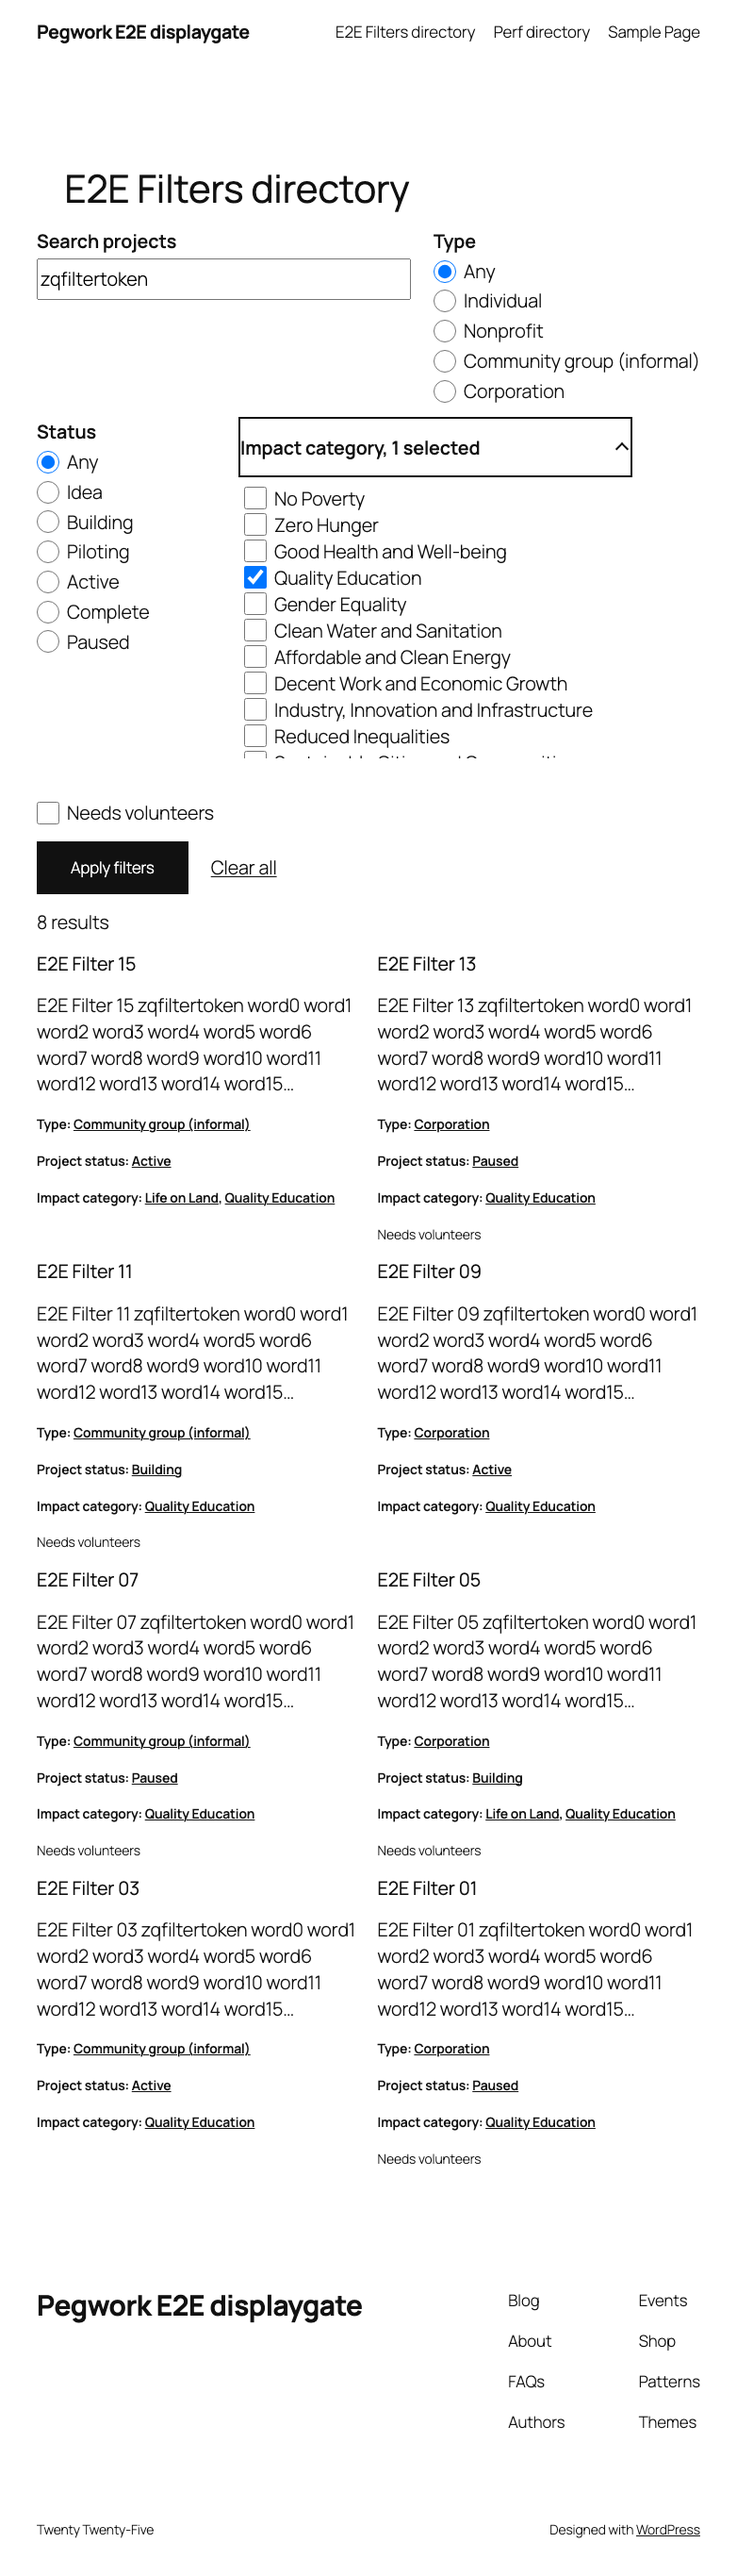
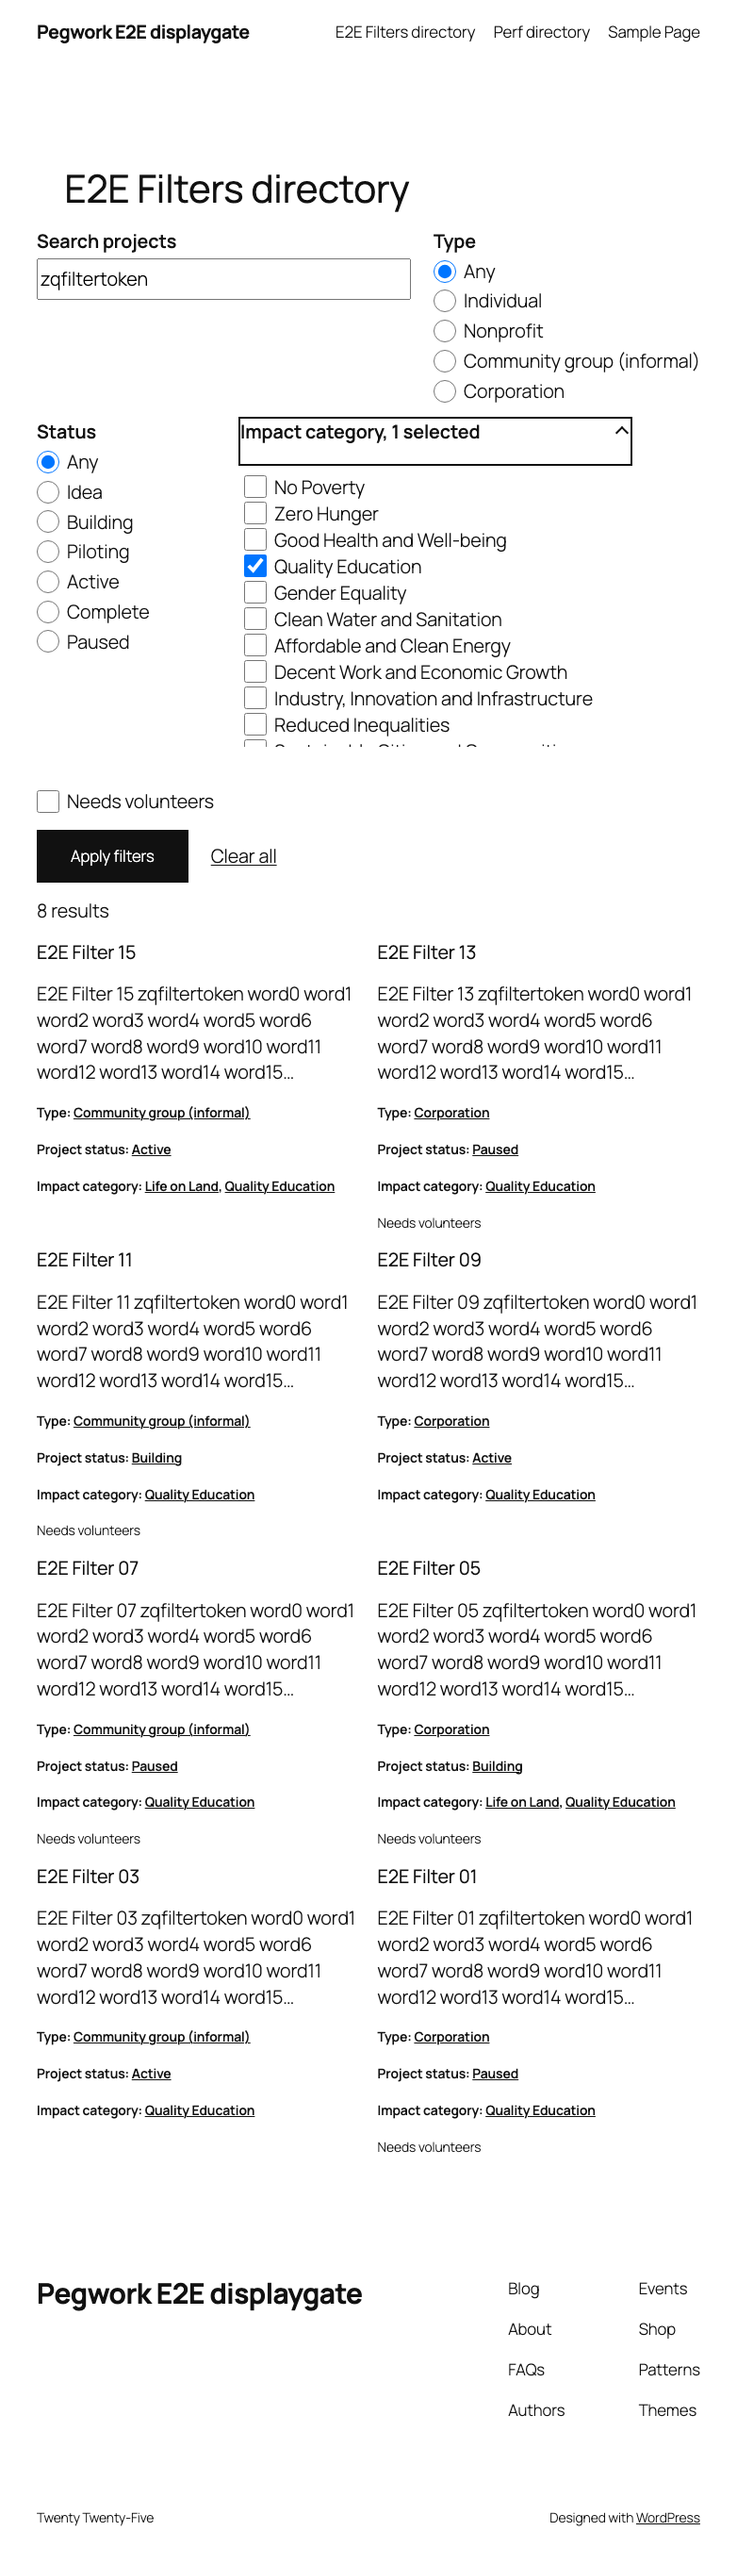
Filters CSS: top-align Needs volunteers toggle and disclosure label; layout screenshot and test

diff --git a/tests/e2e/specs/display-a11y.e2e.js b/tests/e2e/specs/display-a11y.e2e.js
@@ -174,3 +174,31 @@ test( 'the multi-value filter disclosure shows a marker, turns it when open, and
 		'Impact category'
 	);
 } );
+
+test( 'horizontal layout: the Needs volunteers checkbox sits at the top of the row, not centered', async ( {
+	page,
+} ) => {
+	await page.setViewportSize( { width: 1280, height: 900 } );
+	await page.goto( directory.link );
+	// Narrow the search box so every control shares one row, next to the tall radio lists.
+	await page.addStyleTag( {
+		content:
+			'.wp-block-pegwork-filters .pegwork-filters__search { flex: 0 1 8rem; } .wp-block-pegwork-filters .pegwork-filters__details { display: none; }',
+	} );
+	const toggle = page.locator( '.pegwork-filters__toggle' );
+	const search = page.getByLabel( 'Search projects' );
+	const toggleBox = await toggle.getByRole( 'checkbox' ).boundingBox();
+	const searchBox = await search.boundingBox();
+	// On the search box's line (the other groups' controls start there), not centered against the lists.
+	expect(
+		Math.abs(
+			toggleBox.y +
+				toggleBox.height / 2 -
+				searchBox.y -
+				searchBox.height / 2
+		)
+	).toBeLessThan( 20 );
+	await page.locator( '.wp-block-pegwork-filters' ).screenshot( {
+		path: `${ SCREENSHOTS }/filters-layout-horizontal.png`,
+	} );
+} );

diff --git a/modules/filters/blocks/filters/style.css b/modules/filters/blocks/filters/style.css
@@ -85,7 +85,7 @@
 }
 
 .wp-block-pegwork-filters .pegwork-filters__toggle {
-	align-self: center;
+	align-self: flex-start;
 	padding-top: 1.75rem;
 }
 
@@ -99,10 +99,10 @@
 	cursor: pointer;
 	min-height: 2.75rem;
 	display: flex;
-	align-items: center;
+	align-items: flex-start;
 	justify-content: space-between;
 	gap: 0.75rem;
-	padding: 0.5rem 0;
+	padding: 0 0 0.25rem;
 	list-style: none;
 }
 
@@ -115,6 +115,7 @@
 	flex: none;
 	width: 0.5rem;
 	height: 0.5rem;
+	margin-block-start: 0.5rem;
 	margin-inline-end: 0.25rem;
 	border-style: solid;
 	border-width: 0 2px 2px 0;

diff --git a/changelog.md b/changelog.md
@@ -3,7 +3,7 @@
 Purpose: dated, newest-first log of changes actually made.
 
 ## 2026-10-18
-- Phase 2 gate and docs (design PR 6; in review, branch `display-gate`): `bin/perf-directory.sh` (seeds 500 Projects on a `bin/e2e-local-site.sh` site, or uses `--url` and `--path`; p50, p95, max TTFB and query count for the home baseline, archive and directory pattern page, pages 1 and 2, unfiltered and filtered; temporary mu-plugin for query counts; `--max-p95` and `--max-queries`); CI timing guard `DirectoryPerformanceTest::test_render_time_guard` (median of five cold-cache renders under 750 ms); axe spec `display-a11y.e2e.js` (archive, detail, directory pattern, no results, filters open at 1280 and 782 px, no horizontal scroll at 782); filters disclosure fix (chevron that turns when open, visible focus outline; the "N selected" summary already existed); `docs/display.md` (the `listing` section, filters hooks, perf script), `docs/extension-api.md` Display section; measured budget numbers in `architecture.md` (worst p95 76 ms with opcache, worst 30 queries). Screenshots `docs/screenshots/filters-disclosure-closed.png`, `filters-disclosure-open.png`.
+- Phase 2 gate and docs (design PR 6; in review, branch `display-gate`): `bin/perf-directory.sh` (seeds 500 Projects on a `bin/e2e-local-site.sh` site, or uses `--url` and `--path`; p50, p95, max TTFB and query count for the home baseline, archive and directory pattern page, pages 1 and 2, unfiltered and filtered; temporary mu-plugin for query counts; `--max-p95` and `--max-queries`); CI timing guard `DirectoryPerformanceTest::test_render_time_guard` (median of five cold-cache renders under 750 ms); axe spec `display-a11y.e2e.js` (archive, detail, directory pattern, no results, filters open at 1280 and 782 px, no horizontal scroll at 782); filters CSS fixes (disclosure chevron that turns when open and visible focus outline, fixing the `.pegwork-filters__label` specificity that hid the native marker; "N selected" summary already existed; Needs volunteers toggle aligned to the top of the row); `docs/display.md` (the `listing` section, filters hooks, perf script), `docs/extension-api.md` Display section; measured budget numbers in `architecture.md` (worst p95 76 ms with opcache, worst 30 queries). Screenshots `docs/screenshots/filters-disclosure-closed.png`, `filters-disclosure-open.png`.
 - Phase 2 filters, server and client (design PRs 4 and 5; in review, branch `filters`): module `filters` (`PegworkFilters\`): `pegwork/filters` block (attributes `postType`, `filters`, `showSearch`; Horizontal and Vertical styles; editor inspector with server-rendered preview) from the type's `listing`: taxonomy checkboxes (disclosure with "N selected") or radios, select fields, boolean checkboxes, search `q`, legends, Apply, Clear all and the result count in a `role="status"` region (bound loop's `found_posts`, no `core/query-total`). URL-only state (`UrlState`: allowlisted values, comma or bracket form, at most 20 values, 100-character search) fed through `pegwork_listing_constraints` for loops with `pegwork.filters` and listing archives; GET form to the base URL (filter changes reset paging, pagination keeps filters). Script module `@pegwork/filters` (1870 bytes gzipped, CI `npm run check:size` limit 10 KB): router `navigate()` swaps only the Query Loop region, `aria-busy` and dimming while loading, count re-announced, back and forward restore controls and results, debounced search, Clear all focuses search, full-load fallback. Directory pattern gains the block and a "Clear all filters" link in no results; card meta lines at size small, dates as "Verified Oct 2026". `FiltersPerformanceTest` (16 queries filtered on 500 records, budget 35, same at 12 and 48 per page); E2E `filters-no-js.e2e.js` and `filters.e2e.js` (passed on WP 7.1.3 and 6.7); docs `display.md` "Filters", `extension-api.md`. Screenshots `docs/screenshots/filters-*`.
 - Phase 4 PR 7, webhooks (in review, branch `automation-webhooks`): `call_webhook` step (async in the background run, `wp_safe_remote_post()` without redirects, JSON body `event, automation, run_id, delivered_at, record{id, type, status, permalink, fields}` with public fields only, headers `X-Pegwork-Delivery` `<run>-<step>` stable across retries, `X-Pegwork-Timestamp`, `X-Pegwork-Signature: sha256=` HMAC of `timestamp.body`; non-2xx or transport error retried 3 times, then a logged failure; summary host, status, delivery ID); inbound `POST /wp-json/pegwork/v1/automations/<key>/webhook` (429 at 30 a minute per automation, 413 over 64 KB before decoding, 415 non-JSON, then signature and 300 s replay window in the permission callback; one 401 for bad signatures and unknown, disabled or non-webhook automations; `X-Pegwork-Delivery` idempotency; 202 with the run ID, 200 for duplicates; no payload echo); per-automation secrets in option `pegwork_automation_secrets` (autoload off, generated on first use); `wp pegwork automation secret <key> [--rotate]`; inbound URL on the Automations list; filter `pegwork_automation_webhook_rate`. "Verifying Pegwork webhooks" in `docs/automation.md` (PHP and n8n). `AutomationWebhookTest`, fixtures `job_hook`, `job_inbound`, `job_inbound_off`; E2E `automation-webhooks.e2e.js` with mu-plugin `pegwork-e2e-webhooks.php` and package `tests/e2e/packages/webhooks`; screenshots `docs/screenshots/automation-webhook-*.png`. Checked on throwaway site `~/wp-envs/autohooks` (port 8214).
 - Phase 4 PR 5, signed links and the staleness gate (in review, branch `automation-links`): stateless HMAC-SHA256 tokens (`v1.<payload>.<signature>`: automation, link, record, expiry; `hash_equals`); link key from `PEGWORK_LINK_SECRET` or option `pegwork_link_secret` (autoload off, created on first mint); `{{link.<name>}}` mints a URL valid for the link's `expires` from each send (one token per link per render; `[link]` in the log); public handler on `/?pegwork_link=<token>` (`template_redirect`): confirm page with a nonce-protected POST button, `confirm: false` acts on GET, HEAD never acts, link run (`trigger_type` `link`, only the link's steps, only its record, `link_scope` otherwise) executed in the request, thank-you page or `success_url`, single use per token ("Already done"), expired (410 or `expired_url`), not valid (403), unavailable (404), rate limit (429); standalone pages (no-store, noindex, no-referrer, CSP, no private fields, JavaScript off). Executor step-list source for link runs. `wp pegwork automation link-key [--rotate]` and `link <automation> <link> <record> [--now]`. `examples/sifg`: private `paused_on`, `paused_from`, `paused_volunteers`; `sifg_staleness_check` (yearly email with link, P30D wait, re-check, pause with Needs volunteers off and a fresh link; the link restores status and Needs volunteers and sets Last verified); approval email with permalink and Last verified. `StalenessCycleGateTest` (frozen clock), `AutomationLinksTest`, `TokenTest`, fixture `tests/fixtures/valid/links`, E2E spec `automation-links.e2e.js` with mu-plugin `pegwork-e2e-links.php`. Local runbook in `docs/automation.md`, run once on `~/wp-envs/autolinks` (port 8193).

diff --git a/architecture.md b/architecture.md
@@ -127,7 +127,7 @@ Purpose: durable reference facts for the Pegwork plugin (envs, packaging, decisi
 - CI timing guard: `DirectoryPerformanceTest::test_render_time_guard` (in the existing PHPUnit matrix, no new job): median of five cold-cache renders of the 500-record directory under 750 ms, unfiltered and filtered. About 30 times the local median, so a GitHub runner that is 3 to 5 times slower and noisy still passes, while a lost index or an accidental full-table load (hundreds of ms to seconds) fails. Chosen in-process rather than over HTTP in the wp-env E2E job (design said p95 600 ms there) because seeding 500 records and measuring over Docker adds minutes and network noise for the same signal; query counts are already blocking in the same test class. `bin/perf-directory.sh --max-p95 --max-queries` is the HTTP check to run by hand.
 - `bin/perf-directory.sh` installs a temporary mu-plugin (`pegwork-perf-queries.php`, removed on exit) that appends `<!-- pegwork-queries:N -->` when `?pegwork_perf_q=1`, and creates a page "Perf directory" (`perf-directory`) holding the directory pattern; both only on the named throwaway site or an explicit `--url`/`--path`.
 - Accessibility: `display-a11y.e2e.js` runs axe (serious and critical) on archive, detail, directory pattern, no results and filters open at 1280 and 782 px as a visitor, plus no horizontal scroll at 782 px.
-- Filters disclosure: summary is a flex row with a currentColor CSS chevron (`::after`, rotated by `details[open]`), `list-style: none`, `:focus-visible` outline. Selector must be `summary.pegwork-filters__label`: `.pegwork-filters__label` (display block, padding 0) otherwise outranks a bare `summary` rule. The "N selected" count was already in the summary text, closed and open.
+- Filters disclosure: summary is a flex row with a currentColor CSS chevron (`::after`, rotated by `details[open]`), `list-style: none`, `:focus-visible` outline. Selector must be `summary.pegwork-filters__label`: `.pegwork-filters__label` (display block, padding 0) otherwise outranks a bare `summary` rule. The "N selected" count was already in the summary text, closed and open. Summary text aligns to the top like the other group labels (`align-items: flex-start`), and the Needs volunteers toggle is `align-self: flex-start` (it was `center`, which floated it mid-row beside tall radio lists); `filters-layout-horizontal.png`, asserted in `display-a11y.e2e.js`.
 - Browser site: `bin/e2e-local-site.sh start displaygate 8215` (DB `wpenv_displaygate`; PHPUnit DB `pegwork_tests_displaygate` against `~/wp-envs/core-latest`).
 - Lint: `assets/src/forms-editor/index.js` line 23 has an unused `eslint-disable import/no-unresolved` warning after the `import/core-modules` change (#28); left for the forms builder PR that edits that file.
 
